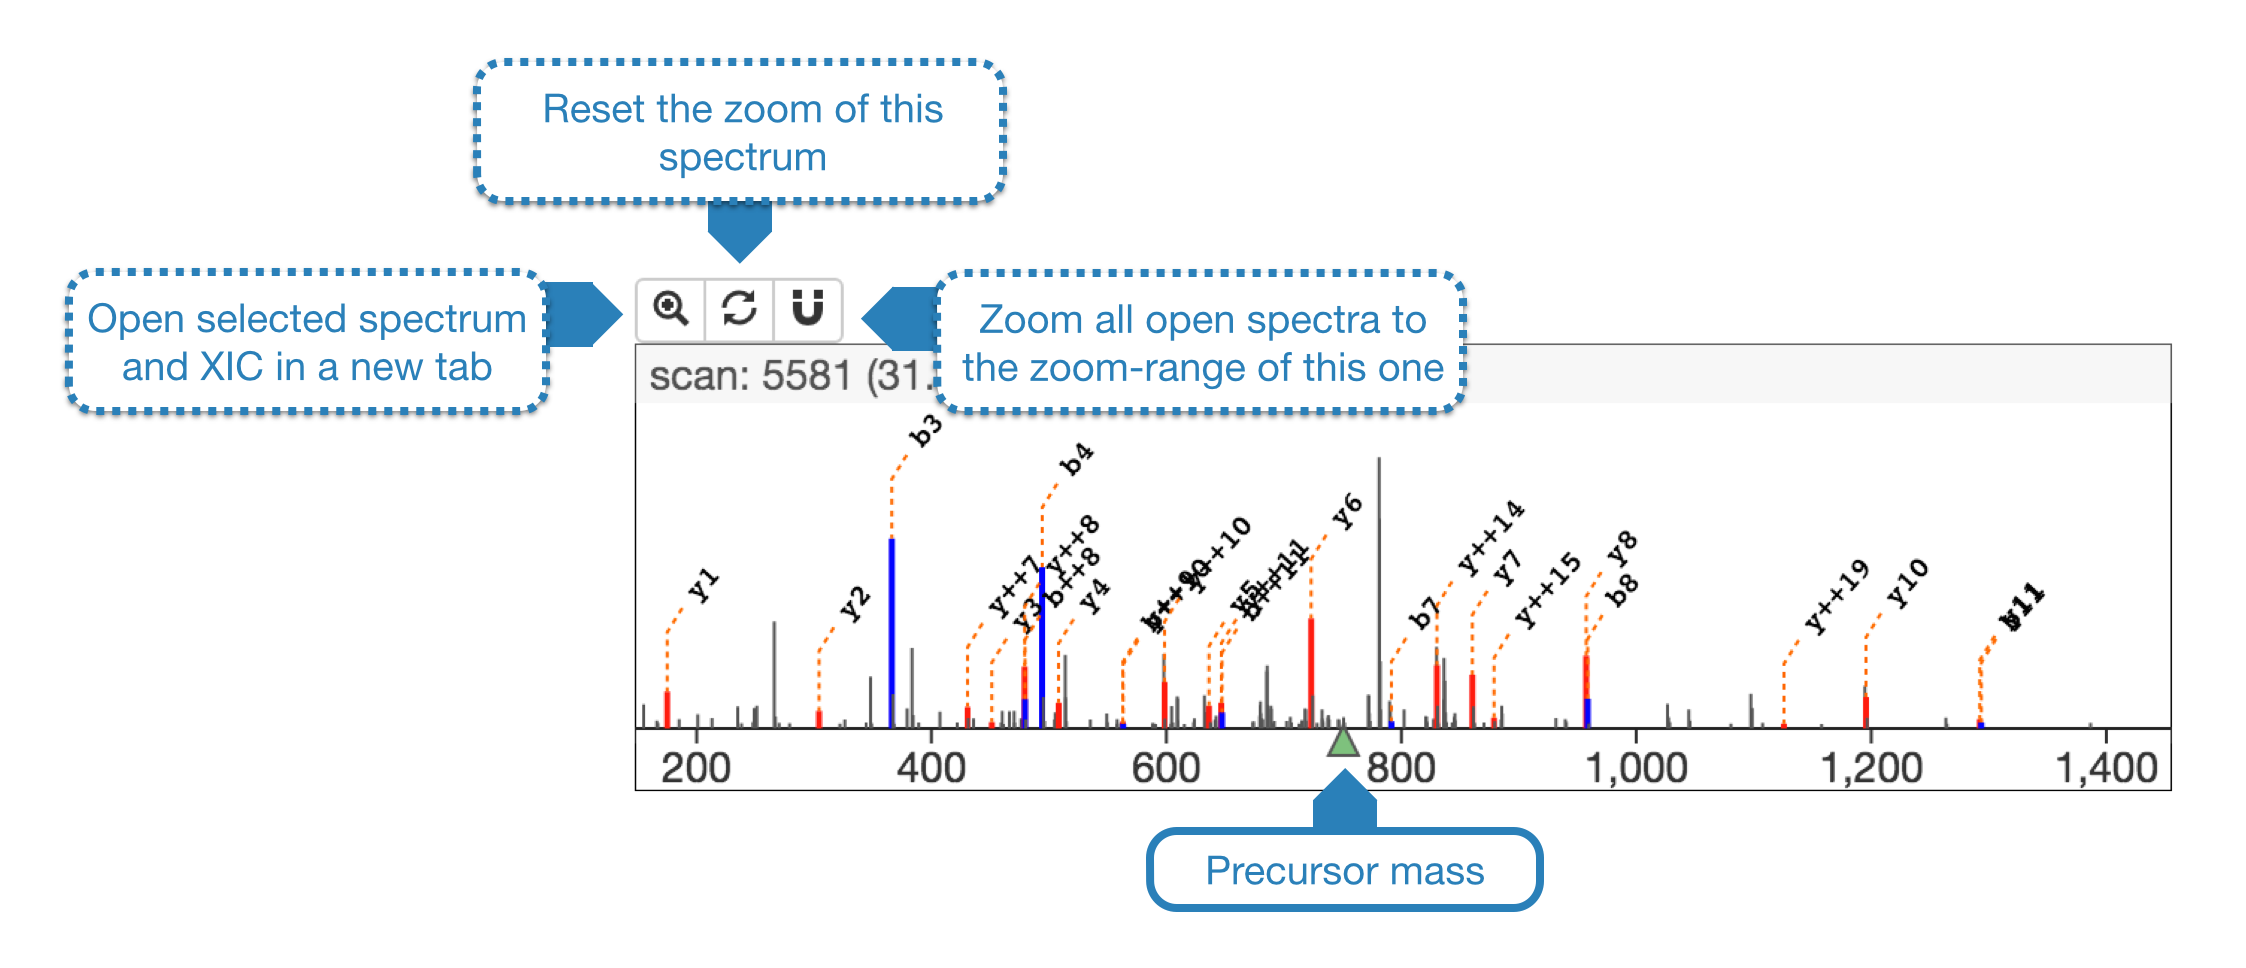
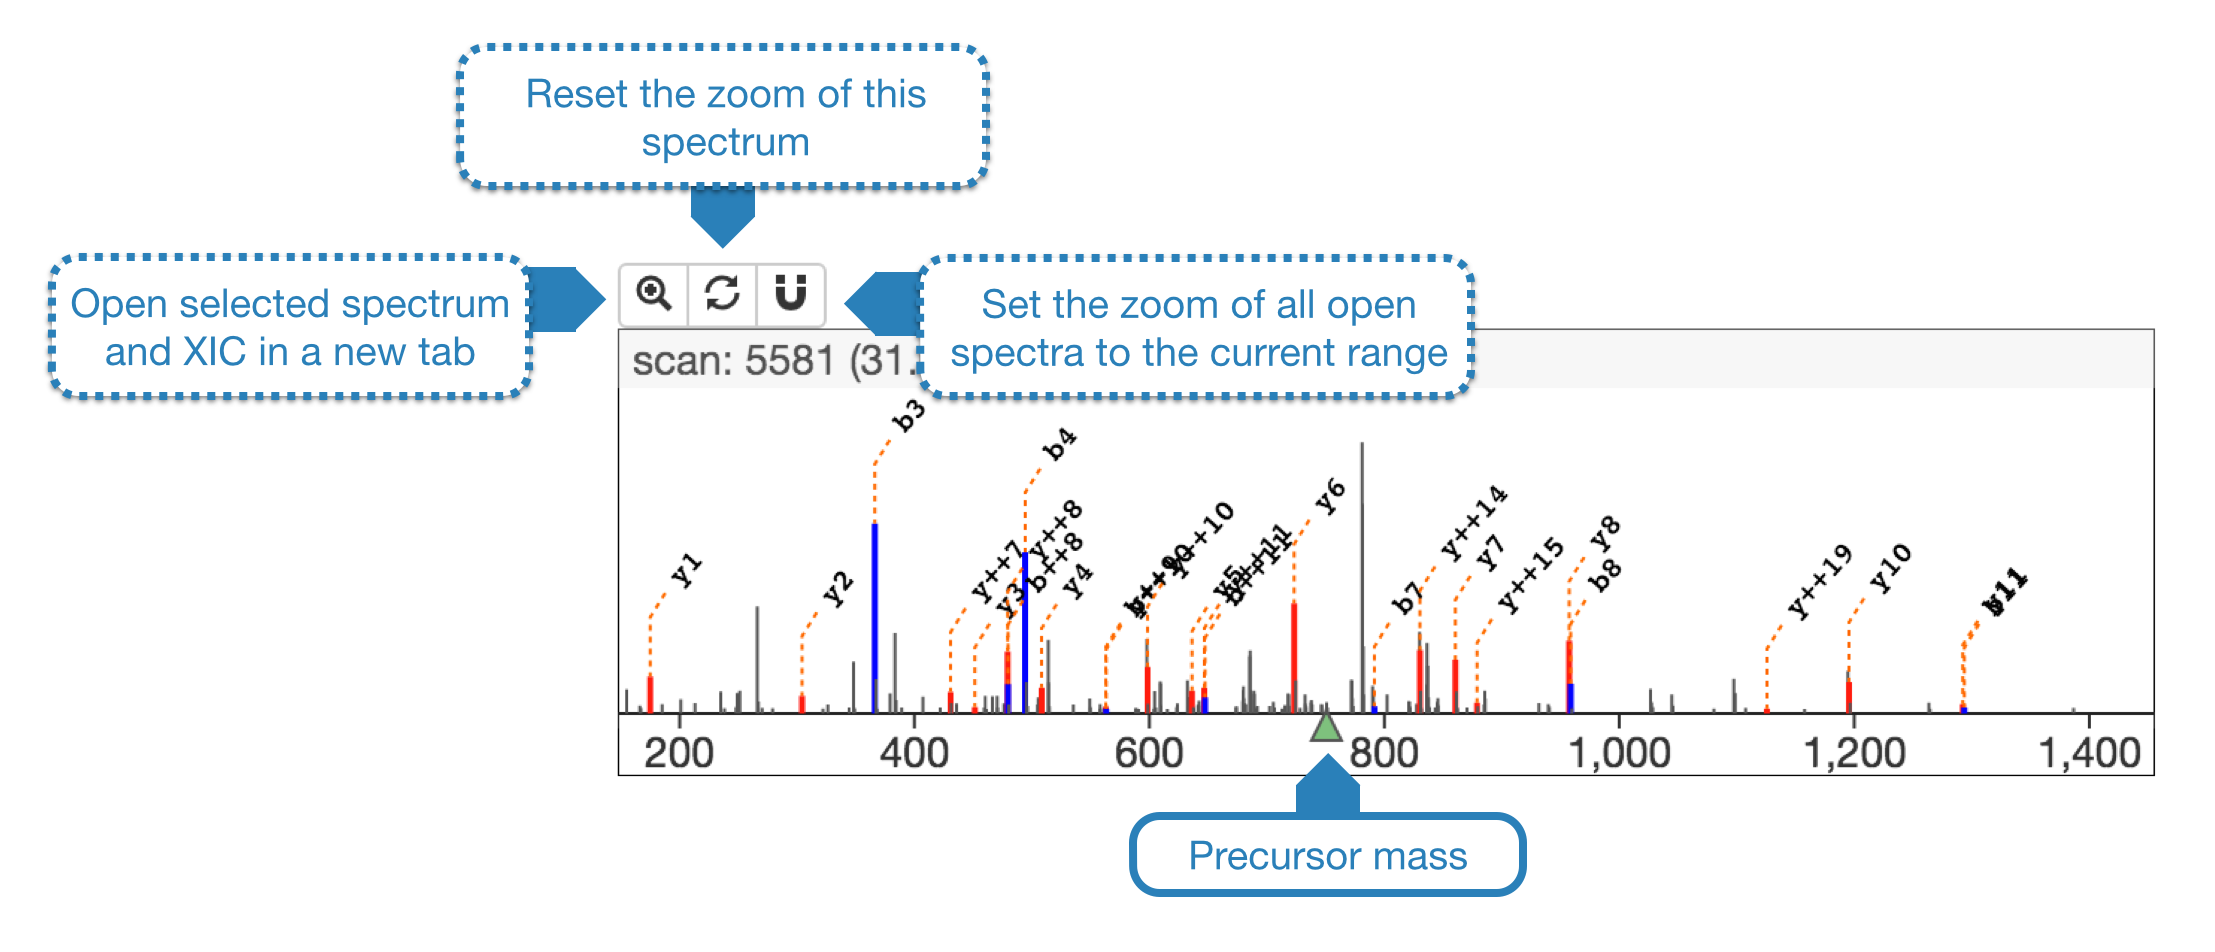
added warning about browsers

diff --git a/src/usage.rst b/src/usage.rst
@@ -3,6 +3,9 @@
 .. |nbsp| unicode:: 0xA0
    :trim:
 
+
+.. warning:: **Browser compatibility**: MsViz was tested with **Firefox** (46.0.1), **Google Chrome** (50.0.2661) and **Safari** (9.1.1). MsViz is currently not compatible with Internet Explorer.
+
 Users' manual
 =============
 
@@ -23,9 +26,14 @@ Searches
 Select searches
 .................
 
+.. figure:: /images/msviz_select_searches.png
+   :width:  100%
+   :alt: Select searches
+
+
 Select the checkboxes of the *SearcheIds* you want to compare. Click on the *Compare* button to see all the proteins identified in the selected searches.
 
-Select protein
+Compare searches and select protein
 ...............
 
 .. figure:: /images/msviz_proteins.png
@@ -36,7 +44,7 @@ The order of the searches can be re-arranged by simple drag-and-drop. This featu
 
 You can filter the list of proteins by choosing a post translational modification (PTM) of interest. Only the proteins containing this PTM will be kept.
 
-Select the protein of interest to look at this protein in more detail. It will open the :ref:`protein_coverage`.
+Select a protein to switch to the :ref:`detail view <protein_coverage>`.
 
 .. _protein_coverage:
 
@@ -47,9 +55,9 @@ Protein coverage view
    :width:  100%
    :alt: Protein coverages
 
-The coverages of the selected samples are shown as green bars. The thikness of the bars correspond to the number of PSM's at a position. 
+The coverages of the selected samples are shown as green bars. The thikness of the bars correspond to the spectral counts for each position. 
 
-By moving with the mouse pointer over the graph, you can get more information about the amino acid sequence. By clicking on the green bars you get the :ref:`psm_details` at the selected position. 
+You can get more information about the amino acid sequence by moving with the mouse pointer over the graph. With a mouse-click on the green bars you get the :ref:`psm_details` for the selected position. 
 
 Post Translational Modification (PTM) counts
 ..............................................
@@ -58,15 +66,15 @@ Post Translational Modification (PTM) counts
    :width:  100%
    :alt: PSM counts
 
-By selecting a PTM from the drop-down menu you can see the position of modifications as blue circles. The size of the blue circles corresponds to the number of PSM's containing the selected modification.
+By selecting a PTM from the drop-down menu you can see the positions with modifications as blue circles (only for the experimental data). The size of the blue circles corresponds to the spectral count containing the selected modification.
 
-On the top you can see labels indicating the modified amino acid (one letter code) together with their position. By clicking on either the labels or the blue circles you get the :ref:`psm_details` at the selected position.
+On top of the graph you can see labels indicating the modified amino acids (one letter code) together with their position. By clicking on either the labels or the blue circles you get the :ref:`psm_details` for the selected position.
 
 .. figure:: /images/msviz_zoom_region.png
    :width:  70%
    :alt: PSM zoom
 
-You can zoom into a region of the graph by seleting an area with your mouse (press left button, selected a region and release the button). The zoom can be reset with a double-click of the left mouse button in any empty area. 
+You can zoom into a region by seleting an area with your mouse (press left button, select a region and release the button). The zoom can be reset with a double-click of the left mouse button in any empty area. 
 
 
 .. _psm_details:
@@ -78,19 +86,19 @@ Peptide Sepctrum Match (PSM) details
    :width:  100%
    :alt: PSM details
 
-Every PSM is represented by a gray line. By moving your mouse over the PSM's you can see a popup showing detail information (scan number, retention time, charge, precursor mass, sequence with modifications, identification and localisation scores). 
+Every PSM is represented by a gray line. By moving your mouse over the PSM's you can see a popup showing  information about the match (scan number, retention time, charge, precursor mass, AA sequence together with modifications and scores). 
 
 On the PSM's you can see the selected PTM's represented by circles: 
 
-- Red circles show the most probable PTM positions. By "most probable" we mean the positions found in the highest ranking PSM.
+- Red circles show the most probable PTM positions. By "most probable" we mean the PTM positions found in the highest ranking PSM.
 
-- Orange circles indicate a conflicting position. This means that this position was found in a lower ranking PSM, which has the same identification score as the highest ranking one.
+- Orange circles indicate a conflicting position. This means the position was found in a lower ranking PSM, but which has the same identification score as the highest ranking one.
 
 - Gray circles show PTM positions of lower ranking PSM's.
 
 - Other modifications then the selected one are shown as black bars.
 
-By clicking on any of the PSM's you open a :ref:`detail view <detail_view>` to the corresponding :ref:`fragmentation spectrum <spectrum_details>` and :ref:`XIC's <xic_view>`. 
+By clicking on any PSM you open a :ref:`detail view <detail_view>` showing the corresponding :ref:`fragmentation spectrum <spectrum_details>` and :ref:`XIC's <xic_view>`. 
 
 
 .. _detail_view:
@@ -104,9 +112,11 @@ Visualization of spectra and XIC's
 
 By clicking on an PSM (gray lines) you open a view to the corresponding :ref:`annotated fragmentation spectrum <spectrum_details>` and :ref:`XIC's <xic_view>`. This allows to easily verify the quality of the match and quantify the corresponding MS1 signals. 
 
-1. :ref:`spectrum_details`: The annotated fragmentation spectrum helps you to verfiy the quality of the match.
+1. :ref:`spectrum_details`: the annotated fragmentation spectrum helps you to verfiy the quality of the match.
 
-2. :ref:`xic_view`: 
+2. :ref:`xic_view`: quantify the corresponding MS1 signal.
+
+3. Alternative matches: look at alternative matches for this spectrum. 
 
 .. _spectrum_details:
 
@@ -117,16 +127,34 @@ Annotated fragmentation spectrum
    :width:  100%
    :alt: spectrum details
 
+The spectrum shows annotated peaks with B-ions in blue and Y-ions in red. You can zoom into a region by selecting an area with your mous (left mouse button). 
+
+To compare all openend fragmentation spectra amongst each other, you can click on the **magnet button**. This sets the mass range of all other spectra to the one from which you clicked. The zoom can be reset by clicking on the **reload button** by double-clicking on any empty area of the graph.
+
+The **zoom button** opens the corresponding spectrum and XIC in an extra browser tab. You get a bigger view of both graphs. That is useful to look at details and to make prettier screenshots.
 
 .. _xic_view:
 
-Extracted Ion Chromatogram (XIC)
+Extracted Ion Chromatogram (XIC) 
 .................................
 
 .. figure:: /images/msviz_xic.png
    :width:  100%
-   :alt: spectrum details
+   :alt: xic
 
+The XIC is generated by extracting the MS1 signal of the given Mass Over Charge (MOZ) ratio and a **tolerance of 10 ppm**. 
+
+Again, to compare all XIC's amongst each other, you can click on the **magnet button**. This sets the retention-time range of all other XIC's to the one from which you clicked. The zoom can be reset by clicking on the **reload button** or by double-clicking on any empty area of the graph.
+
+Spectra and XIC's can be closed by clicking on the **close button**.
+
+.. figure:: /images/msviz_xic_quanti.png
+   :width:  100%
+   :alt: xic quantitation
+
+You can quantitate the XIC peaks by selecting a region. To do so you select an area, like done for zooming, but in this case you hold down the **SHIFT** key while selecting. A green area while show the region were the quantitation was done and a table containing intensity values will appear below.
+
+The quantitation table shows the maximum intensity for the region of interest (*Intensity*) and the exact retention time where this intensity was found (*Rt*). This information can be added to the :ref:`resultBasket` by clicking on the **basket button**.
 
 .. _uploads:
 
@@ -140,15 +168,15 @@ Upload results
    :width:  100%
    :alt: Upload results
 
-The types of data accepted by MsViz are either Mascot or MaxQuant results.
+The types of data currently accepted by MsViz are either Mascot or MaxQuant results.
 
-Select the file to upload. It will be a .zip file containing:
+Select the file to upload. It has to be a *.zip* file containing:
 
-- Mascot: All the .MzML files used for MS1 and MS2 acquisition and .mzid file with identification results.
+- **Mascot**: All the *.MzML* files used for MS1 and MS2 acquisition and *.mzid* file with identification results.
 
-- MaxQuant: All the .MzML files used for MS1 and MS2 acquisition and the folder called /txt with identification results.
+- **MaxQuant**: All the *.MzML* files used for MS1 and MS2 acquisition and the folder called */txt* with identification results.
 
-By clicking the button Upload your file will be loaded on MsViz.
+By clicking the **Upload button** your file will be loaded on MsViz.
 
 
 Upload database
@@ -158,9 +186,9 @@ Upload database
    :width:  100%
    :alt: Upload database
 
-The database accepted by MsViz has to be a .fasta file.
+The database accepted by MsViz has to be a *.fasta* file.
 
-By clicking the button Upload your file will be loaded on MsViz.
+By clicking the **Upload button** your file will be loaded on MsViz.
 
 You can see a list of the databases you already loaded.
 
@@ -175,7 +203,7 @@ Result Basket
 
 By clicking on any of the results in the list you open a view to the selected one.
 
-You can remove your results or you can export them into a .csv containing the protein AC, the peptide, scan number, retention time, m/z, charge, score and intensity for all your samples. 
+You can remove your results or you can export them into a *.csv* containing the protein AC, the peptide, scan number, retention time, m/z, charge, score and intensity for all your samples. 
 
 
 
